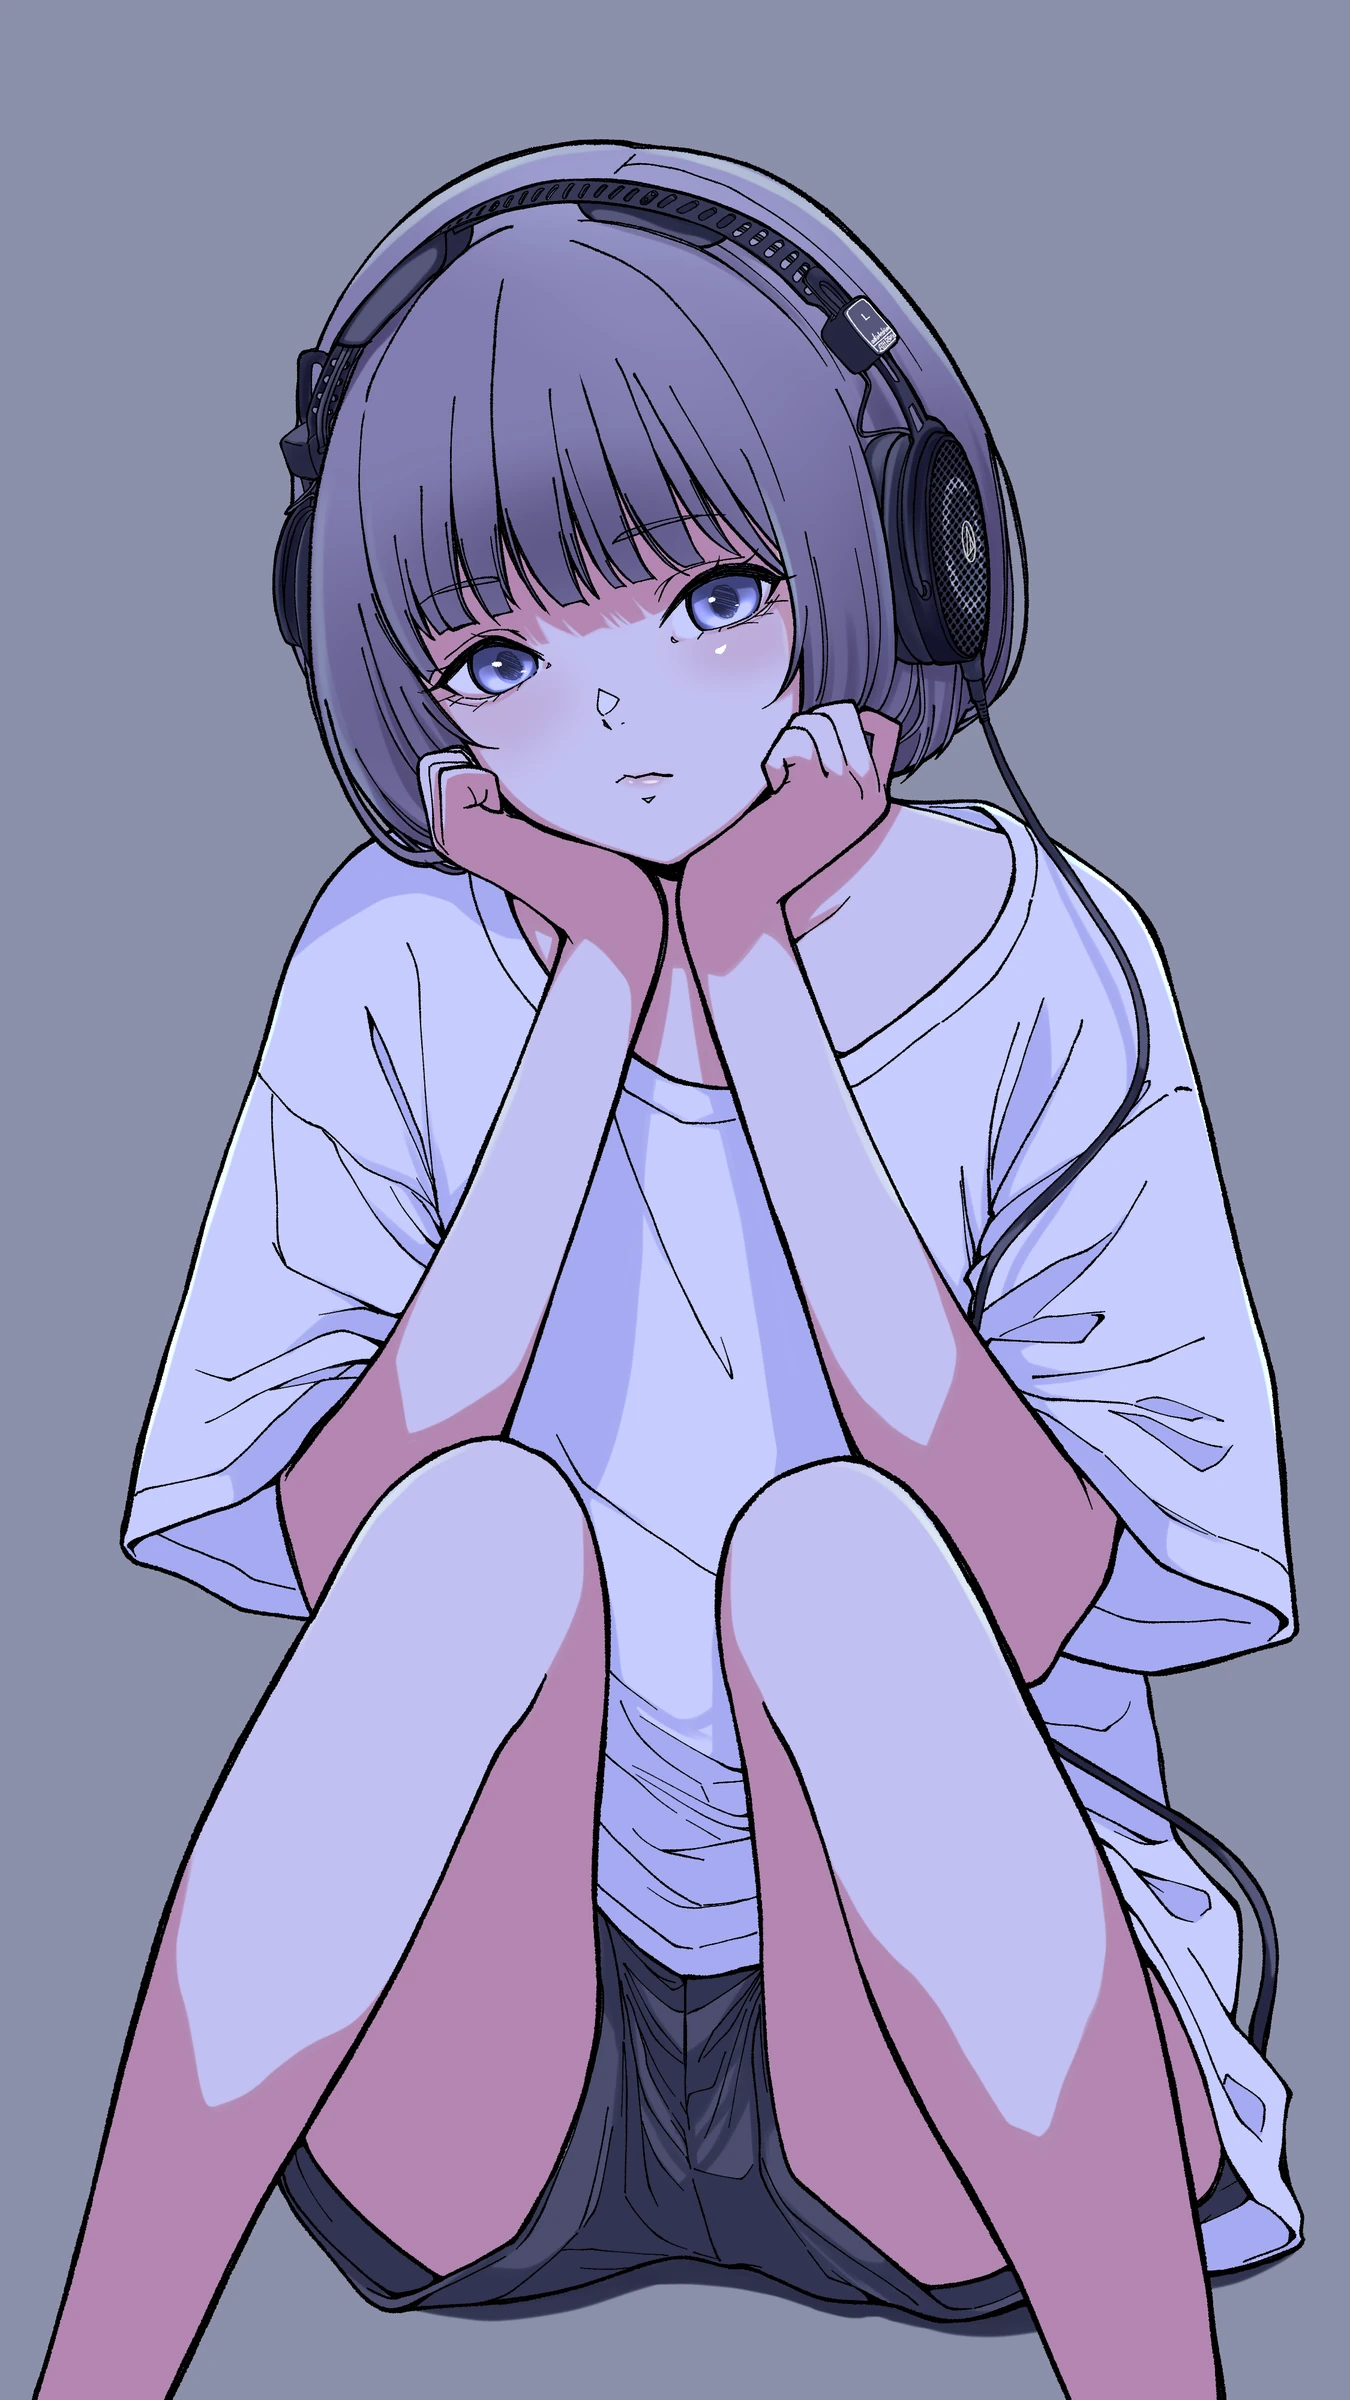
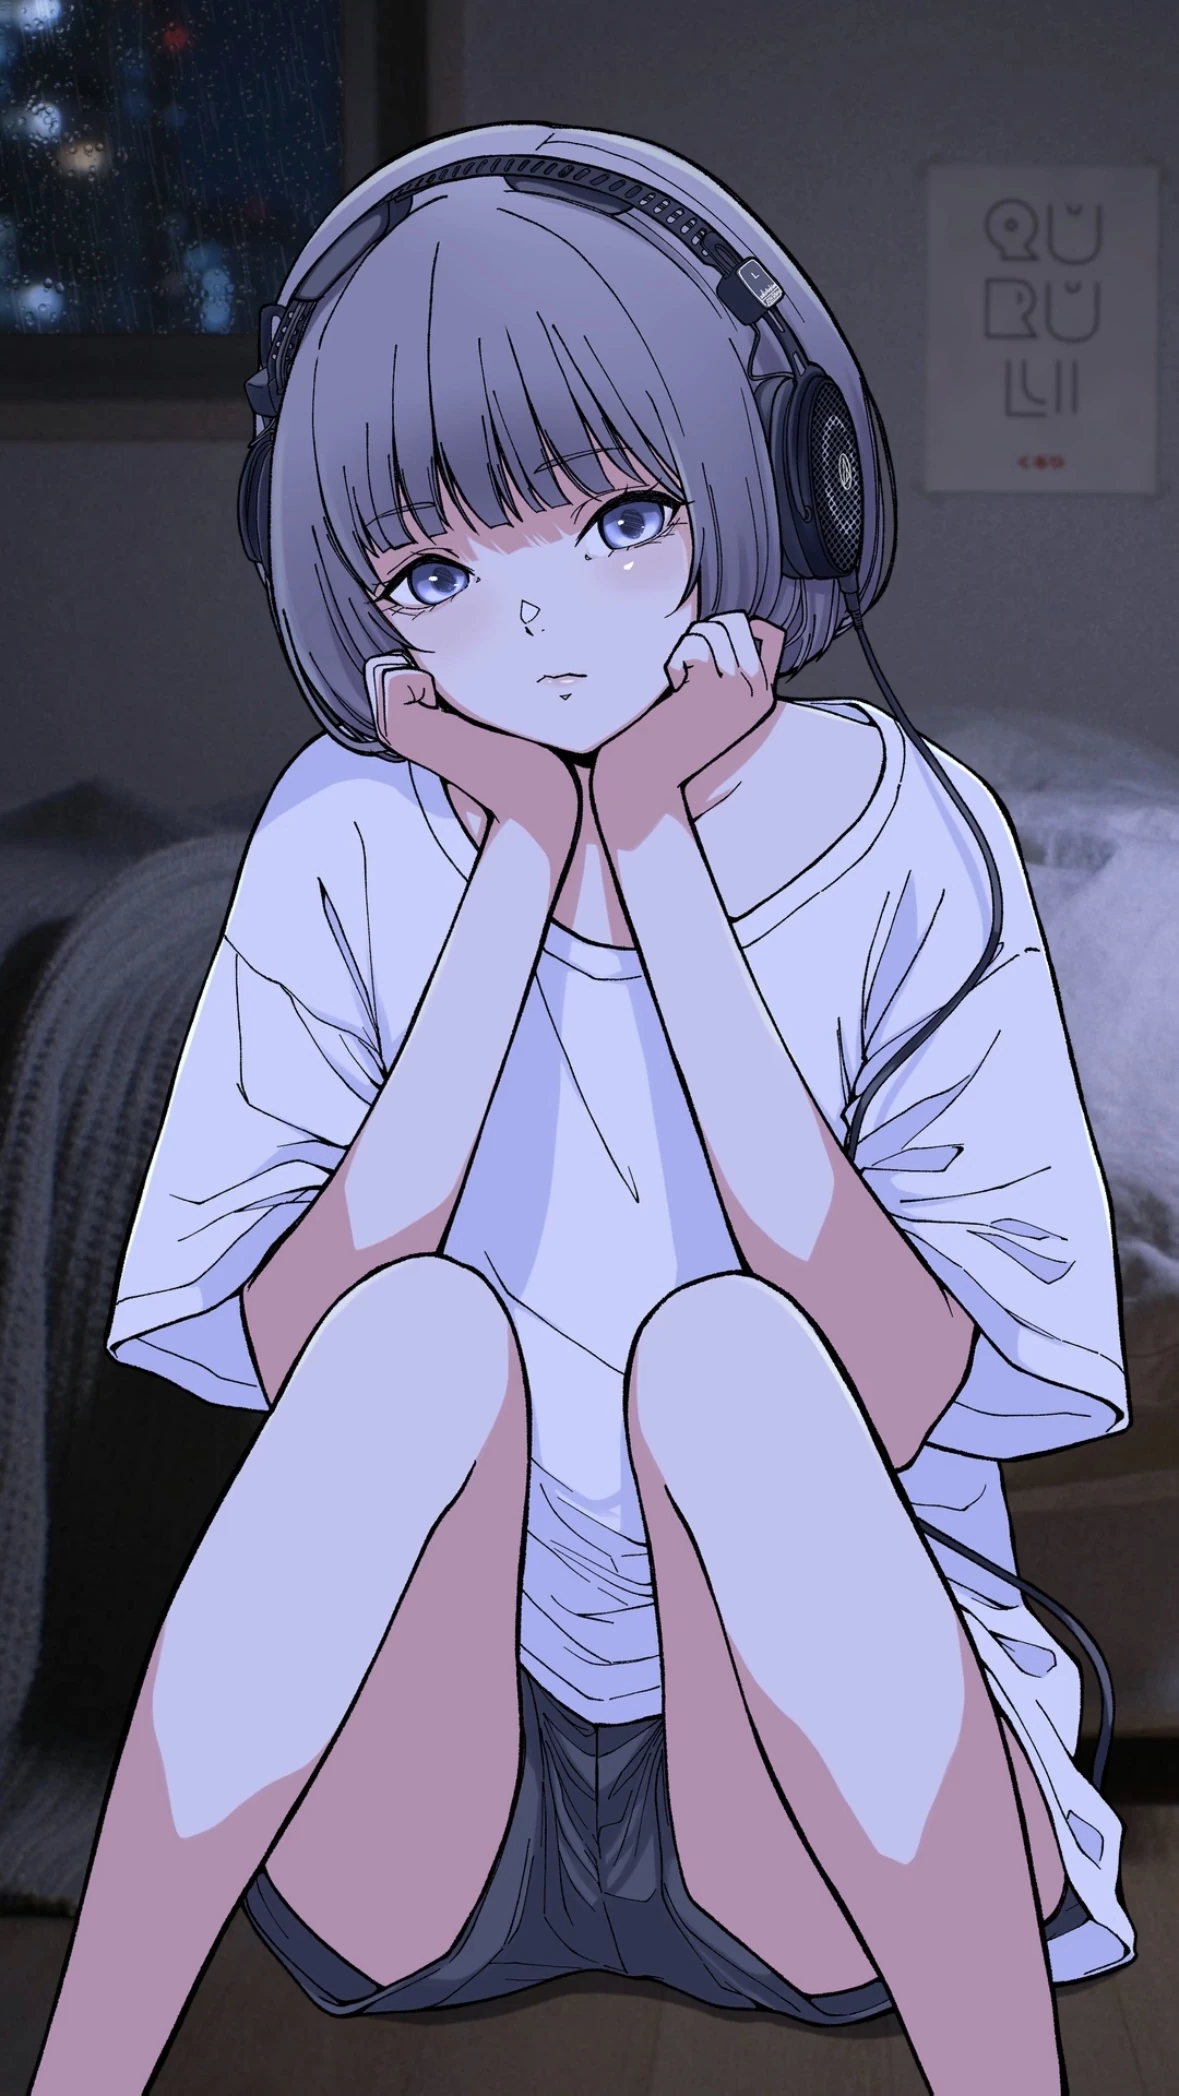
No.003: the rainy-night room picture and its song; No.004: song and gear; HOME list uses the versions with a background drawn in

diff --git a/src/data/works.ts b/src/data/works.ts
@@ -10,6 +10,7 @@ import c1 from '../assets/art/001-cut.webp';
 import f1 from '../assets/art/001-face.webp';
 import g1 from '../assets/art/001-gear.webp';
 import p1 from '../assets/art/001-short-poster.webp';
+import s1 from '../assets/art/001-room.webp';
 import k2 from '../assets/art/002-key.webp';
 import c2 from '../assets/art/002-cut.webp';
 import f2 from '../assets/art/002-face.webp';
@@ -22,6 +23,7 @@ import c3 from '../assets/art/003-cut.webp';
 import g3 from '../assets/art/003-gear.webp';
 import l3 from '../assets/art/003-lettered.webp';
 import k4 from '../assets/art/004-key.webp';
+import g4 from '../assets/art/004-gear.webp';
 import k5 from '../assets/art/005-key.webp';
 import c5 from '../assets/art/005-cut.webp';
 import f5 from '../assets/art/005-face.webp';
@@ -59,6 +61,9 @@ const [A, B] = characters;
 const music: Record<string, Track> = {
   akanesasu: { id: 'zutomayo', artist: 'ずっと真夜中でいいのに。', title: 'あかねさす頃' },
   musubi: { id: 'ayumu-imazu', artist: 'Ayumu Imazu', title: '結び' },
+  // 2026-11-13, the user: No.003 くるりの「上海蟹」の曲, No.004 A2O LITE「NEON」
+  kohaku: { id: 'quruli', artist: 'くるり', title: '琥珀色の街、上海蟹の朝' },
+  neon: { id: 'a2o-lite', artist: 'A2O LITE', title: 'NEON' },
 };
 
 export const gear: Gear[] = [
@@ -66,8 +71,9 @@ export const gear: Gear[] = [
   { id: 'fiio-eh11', brand: 'FiiO', model: 'EH11', thumb: img(g2, 'FiiO EH11') },
   // from the words on No.003's feed image (GEAR / BRAND audio-technica / MODEL ATH-R50x)
   { id: 'audio-technica-ath-r50x', brand: 'audio-technica', model: 'ATH-R50x', thumb: img(g3, 'audio-technica ATH-R50x') },
+  { id: 'sony-wh-ult900n', brand: 'Sony', model: 'WH-ULT900N', thumb: img(g4, 'Sony WH-ULT900N') },
 ];
-const [HL7BT, EH11, R50X] = gear;
+const [HL7BT, EH11, R50X, ULT900N] = gear;
 
 export const works: Work[] = [
   {
@@ -79,6 +85,8 @@ export const works: Work[] = [
     key: img(k1, '枕に頬をのせ、うつぶせでスマートフォンを見る、黒いヘッドホンの女の子'),
     cut: img(c1, '枕に頬をのせ、うつぶせでスマートフォンを見る女の子'),
     face: img(f1, 'スマートフォンの光に照らされた、黒いヘッドホンの女の子の顔'),
+    // the still of the short: the room on a rainy night (the 01 folder)
+    scene: { ...img(s1, '雨の夜の部屋で、うつぶせでスマートフォンを見る黒いヘッドホンの女の子'), focus: '50% 100%' },
     focus: '62% 50%',
     music: [music.akanesasu],
     gear: [HL7BT],
@@ -123,29 +131,29 @@ export const works: Work[] = [
     lettered: img(ig2, 'HEADPHONES GIRL と NE0NNi* のロゴ、FiiO EH11 の文字と、首にヘッドホンをかけた女の子'),
   },
   {
-    // the 03 folder (2026-11-13). Character, music and posts not given yet (current.md)
+    // the 03 folder (2026-11-13): IMG_8457.jpg, the room on a rainy night. Character and posts not given yet (current.md)
     no: 3,
     id: '003',
     series: HG,
     kind: 'original',
-    key: img(k3, 'グレーの背景に、黒いヘッドホンをつけた白いTシャツの女の子が、膝を立てて座り、両手で頬づえをつく'),
+    key: img(k3, '雨の夜の部屋で、黒いヘッドホンをつけた白いTシャツの女の子が、膝を立てて座り、両手で頬づえをつく'),
     cut: img(c3, '黒いヘッドホンをつけた白いTシャツの女の子が、膝を立てて座り、両手で頬づえをつく'),
     focus: '50% 4%',
-    music: [],
+    music: [music.kohaku],
     gear: [R50X],
     posts: [],
     lettered: img(l3, 'HEADPHONES GIRL と NE0NNi* のロゴ、audio-technica ATH-R50x の文字と、ヘッドホンをつけて頬づえをつく女の子'),
   },
   {
-    // the 04 folder (2026-11-13). Character, music, gear and posts not given yet (current.md)
+    // the 04 folder (2026-11-13). Character and posts not given yet (current.md)
     no: 4,
     id: '004',
     series: HG,
     kind: 'original',
     key: img(k4, '紫がかったグレーの背景に、白いヘッドホンをつけた長い髪の女の子が、黒いトップスで目元にピースを添える'),
     focus: '50% 0%',
-    music: [],
-    gear: [],
+    music: [music.neon],
+    gear: [ULT900N],
     posts: [],
   },
   {

diff --git a/history.md b/history.md
@@ -58,3 +58,4 @@
 - PC の SNS アイコンの列をヘッダーの一部にし、右端の真ん中に留めてページを追随させた。明るい地で黒・暗い地で白（ヘッダーと同じ仕組み）、hover は丸に印を抜く、フッターが来たら消える（ユーザー指定）。SP・TB はヒーローの中のまま
 - シリーズ名の表記を全部大文字に（Headphones Girl → HEADPHONES GIRL。作品データ・CMS の既定値・ABOUT・見本ページ・CMS の手引き。ユーザー指定）
 - 作品を2点足した：03 のフォルダの子を No.003（ギア audio-technica ATH-R50x、文字入りの絵あり）、04 のフォルダの子を No.004。お団子髪の子（トリビュート）は No.005 に移した（号数は確認事項）。HOME の作品の一覧は作品ごとに背景ありの絵1枚（左に No.005、右に No.004〜001）、章は文字入りのクリエイティブがある作品（No.002・No.003）を、文字入りの絵で出す（ユーザー指定）
+- No.003 の絵を 03 の IMG_8457.jpg（雨の夜の部屋）に替え、曲（くるり「琥珀色の街、上海蟹の朝」）を入れた。No.004 に曲（A2O LITE「NEON」）とギア（Sony WH-ULT900N、絵から寄りを切り出し）を入れた。HOME の作品の一覧は、背景を描いた版があればそれを使う形にし、No.001（ショートの静止画）・No.002（夜の街）も替えた（ユーザー：背景ありのもの）
